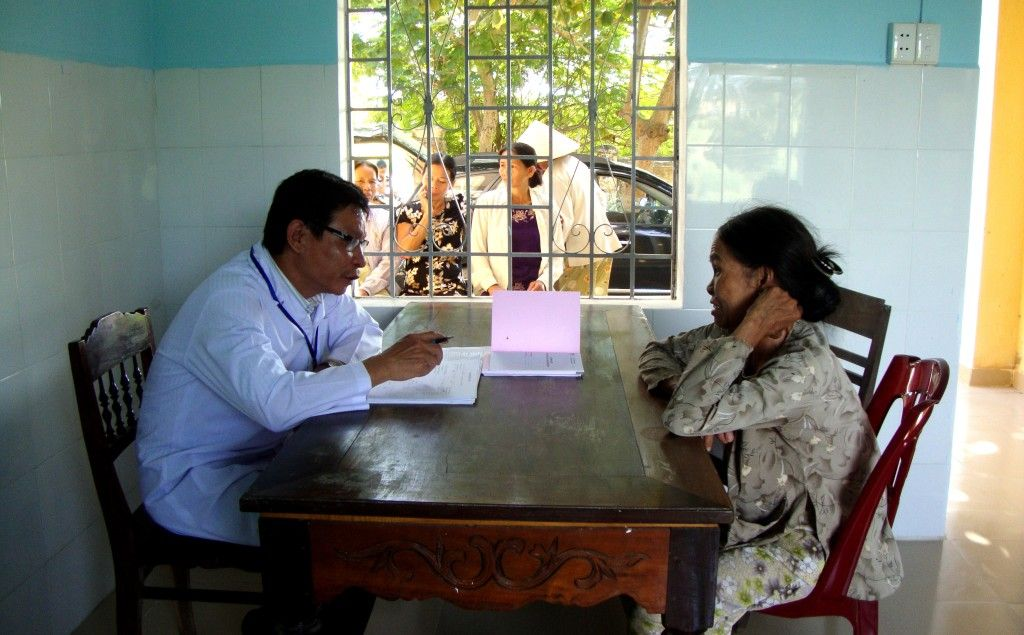
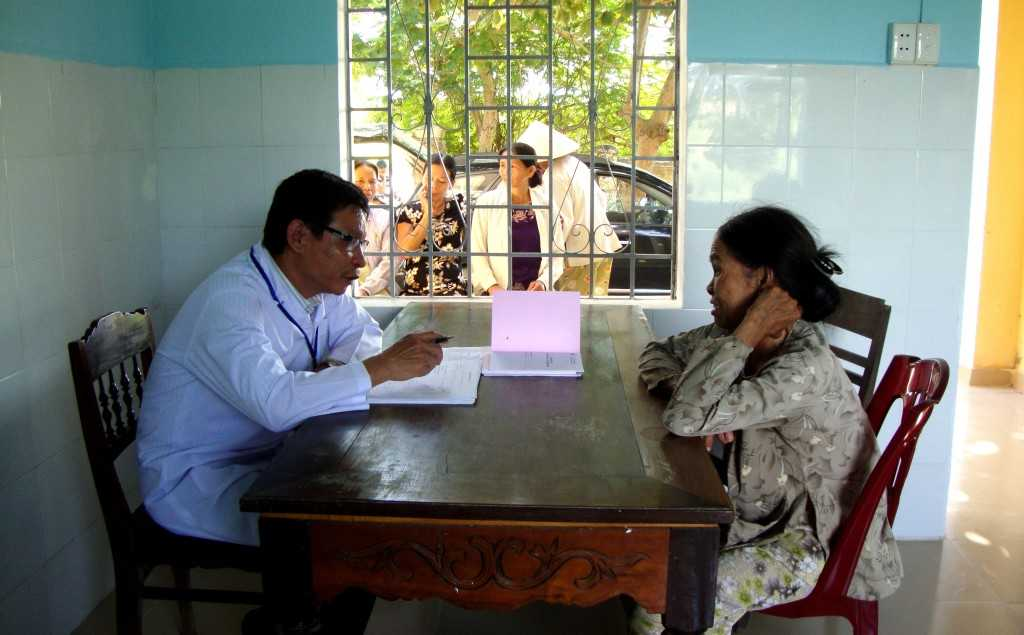
Increase Image Compression

diff --git a/gulpfile.js b/gulpfile.js
@@ -67,7 +67,7 @@ gulp.task("images", function(done) {
       .pipe(
         $.responsive(config, {
           errorOnEnlargement: false,
-          quality: 80,
+          quality: 50,
           withMetadata: false,
           compressionLevel: 7,
           max: true
